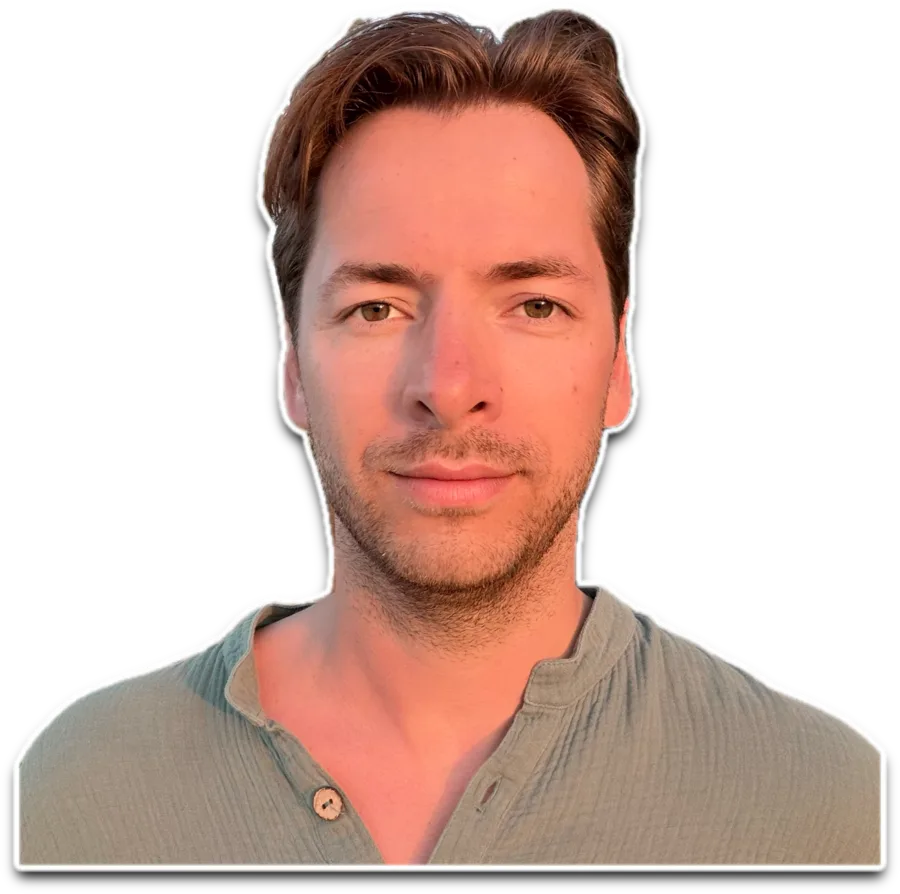
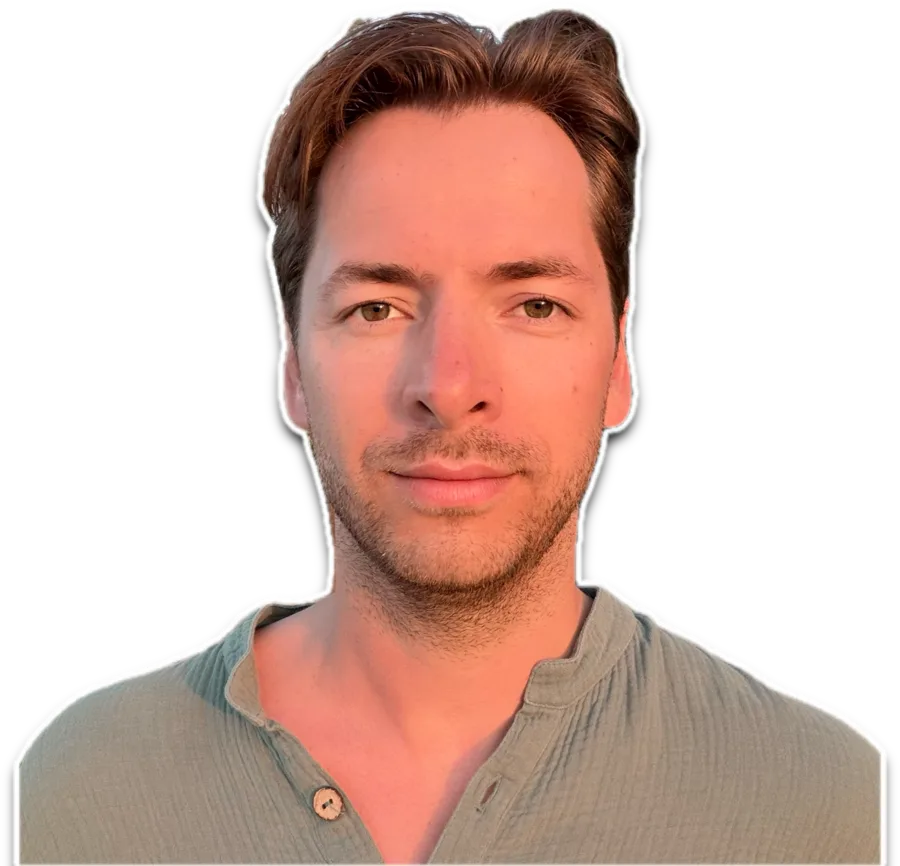
feat(hero): первый экран на всю высоту, логотипы Claude и ChatGPT у фото, мягкий низ фото
На десктопе блок занимает 100svh минус шапка с полями 48px, фото масштабируется
от высоты и ширины окна. Низ фото растворяется в фон вместо жёсткого среза.
Слева и справа от фото анимированные логотипы Claude (оранжевый) и ChatGPT
с подписями, место под них зарезервировано в колонке фото.

Changed region(s): [[0.0, 0.0, 0.9956, 1.0], [0.4044, 0.7794, 0.4356, 0.8106]]

diff --git a/components/sections/Hero.tsx b/components/sections/Hero.tsx
@@ -3,6 +3,7 @@ import Image from 'next/image';
 import Link from 'next/link';
 import { Button } from '@/components/ui/Button';
 import { Reveal } from '@/components/Reveal';
+import { ChatGPTLogo, ClaudeLogo } from '@/components/AgentLogos';
 
 // Фото учеников для полоски доверия — те же, что в «Сайтах наших учеников»
 const studentPhotos = [
@@ -26,27 +27,27 @@ export function Hero() {
       {/* Тёплый градиент с сеткой под тему — самый нижний слой */}
       <div aria-hidden className="hero-surface pointer-events-none absolute inset-0" />
 
-      <div className="container-page section relative z-10 flex flex-col items-center pb-48 pt-10 text-center sm:pb-56 sm:pt-14 lg:pt-20">
+      {/* С lg: блок занимает первый экран целиком (100svh минус шапка 7rem), поля 48px */}
+      <div className="container-page section relative z-10 flex flex-col items-center pb-20 pt-10 text-center sm:pb-24 sm:pt-14 lg:min-h-[calc(100svh-7rem)] lg:max-w-none lg:justify-center lg:px-12 lg:py-12">
         {/* До lg: стек по центру — фото, текст, чек-лист.
             С lg: три колонки — текст слева, фото в центре, чек-лист справа */}
-        <div className="grid w-full items-center gap-8 lg:grid-cols-[minmax(0,1fr)_auto_minmax(0,1fr)] lg:gap-6">
+        <div className="grid w-full items-center gap-8 lg:grid-cols-[minmax(0,1fr)_auto_minmax(0,1fr)] lg:gap-10">
           <Reveal className="order-2 lg:order-1 lg:text-left">
-            <p className="text-sm font-bold uppercase tracking-[0.2em] text-ink-soft">
-              Claude + ChatGPT
-            </p>
-            <p className="mt-4 inline-flex items-center border-2 border-terracotta px-4 py-1.5 text-sm font-bold uppercase tracking-wider text-terracotta">
+            <p className="inline-flex items-center border-2 border-terracotta px-4 py-1.5 text-sm font-bold uppercase tracking-wider text-terracotta">
               2–4 недели до сайта
             </p>
             <h1 className="mt-5 font-display font-bold leading-none tracking-tight">
-              <span className="block text-3xl sm:text-4xl lg:text-3xl">Соберите</span>
-              <span className="mt-1 block text-5xl uppercase text-terracotta sm:text-6xl lg:text-5xl">
+              <span className="block text-3xl sm:text-4xl lg:text-3xl 2xl:text-4xl">
+                Соберите
+              </span>
+              <span className="mt-1 block text-5xl uppercase text-terracotta sm:text-6xl lg:text-5xl 2xl:text-6xl">
                 свой сайт
               </span>
-              <span className="mt-2 block text-2xl sm:text-3xl lg:text-2xl">
+              <span className="mt-2 block text-2xl sm:text-3xl lg:text-2xl 2xl:text-3xl">
                 с помощью ИИ
               </span>
             </h1>
-            <p className="mt-5 text-lg font-semibold text-ink-soft sm:text-xl lg:text-lg">
+            <p className="mt-5 text-lg font-semibold text-ink-soft sm:text-xl lg:text-lg 2xl:text-xl">
               и сэкономьте{' '}
               <span className="text-terracotta">сотни тысяч рублей</span> на студиях
               и фрилансерах
@@ -57,15 +58,27 @@ export function Hero() {
             </p>
           </Reveal>
 
-          <div className="pointer-events-none relative order-1 mx-auto h-64 w-auto sm:h-80 lg:order-2 lg:h-[30rem]">
+          {/* Фото: с lg высота зависит и от высоты, и от ширины окна.
+              Низ растворяется в фон (hero-photo), логотипы агентов на уровне ушей */}
+          {/* Боковые отступы обёртки — место под логотипы, чтобы они не наезжали на соседние колонки */}
+          <div className="relative order-1 mx-auto h-56 w-auto px-14 sm:h-80 sm:px-20 lg:order-2 lg:h-[min(54svh,36vw)] lg:px-[clamp(4.5rem,6.5vw,7rem)]">
             <Image
               src="/images/roman-hero.webp"
               alt=""
               width={900}
-              height={894}
+              height={866}
               priority
-              className="h-full w-auto object-contain"
+              className="hero-photo pointer-events-none h-full w-auto object-contain"
             />
+
+            <div className="agent-badge absolute left-0 top-[38%] text-[10px] text-[#d97757] sm:text-xs">
+              <ClaudeLogo className="agent-claude h-9 w-9 sm:h-11 sm:w-11 lg:h-[clamp(2.75rem,4.5vw,4.5rem)] lg:w-[clamp(2.75rem,4.5vw,4.5rem)]" />
+              <span>Claude</span>
+            </div>
+            <div className="agent-badge absolute right-0 top-[38%] text-[10px] text-ink sm:text-xs">
+              <ChatGPTLogo className="agent-chatgpt h-9 w-9 sm:h-11 sm:w-11 lg:h-[clamp(2.75rem,4.5vw,4.5rem)] lg:w-[clamp(2.75rem,4.5vw,4.5rem)]" />
+              <span>ChatGPT</span>
+            </div>
           </div>
 
           {/* Чек-лист результатов — плашка, как на референсе */}
@@ -82,7 +95,7 @@ export function Hero() {
           </Reveal>
         </div>
 
-        <Reveal delay={300} className="mt-10 flex flex-col items-center gap-4 sm:flex-row">
+        <Reveal delay={300} className="mt-10 flex flex-col items-center gap-4 sm:flex-row lg:mt-6">
           <Button href="/#zayavka" size="lg">
             Записаться в мастерскую
           </Button>
@@ -96,7 +109,7 @@ export function Hero() {
           {/* Мобилка: фото сверху, подпись под ними; с sm — в одну строку */}
           <Link
             href="#works"
-            className="group mt-8 flex flex-col items-center gap-2.5 sm:flex-row sm:gap-3"
+            className="group mt-8 flex flex-col items-center gap-2.5 sm:flex-row sm:gap-3 lg:mt-5"
           >
             {/* shrink-0: иначе flex ужимает полоску, и фото вылезают под текст */}
             <span className="flex shrink-0" aria-hidden>
@@ -120,7 +133,7 @@ export function Hero() {
           </Link>
         </Reveal>
 
-        <Reveal delay={500} className="mt-10">
+        <Reveal delay={500} className="mt-10 lg:mt-5">
           <Link
             href="#audience"
             aria-label="К следующему разделу"

diff --git a/components/AgentLogos.tsx b/components/AgentLogos.tsx
@@ -1,0 +1,20 @@
+// Логотипы ИИ-агентов у фото преподавателя. Векторы — Simple Icons (CC0).
+// Анимации — как индикаторы загрузки в самих продуктах: Claude «дышит», ChatGPT крутится.
+
+type LogoProps = { className?: string };
+
+export function ClaudeLogo({ className = '' }: LogoProps) {
+  return (
+    <svg viewBox="0 0 24 24" className={className} aria-hidden fill="currentColor">
+      <path d="m4.7144 15.9555 4.7174-2.6471.079-.2307-.079-.1275h-.2307l-.7893-.0486-2.6956-.0729-2.3375-.0971-2.2646-.1214-.5707-.1215-.5343-.7042.0546-.3522.4797-.3218.686.0608 1.5179.1032 2.2767.1578 1.6514.0972 2.4468.255h.3886l.0546-.1579-.1336-.0971-.1032-.0972L6.973 9.8356l-2.55-1.6879-1.3356-.9714-.7225-.4918-.3643-.4614-.1578-1.0078.6557-.7225.8803.0607.2246.0607.8925.686 1.9064 1.4754 2.4893 1.8336.3643.3035.1457-.1032.0182-.0728-.164-.2733-1.3539-2.4467-1.445-2.4893-.6435-1.032-.17-.6194c-.0607-.255-.1032-.4674-.1032-.7285L6.287.1335 6.6997 0l.9957.1336.419.3642.6192 1.4147 1.0018 2.2282 1.5543 3.0296.4553.8985.2429.8318.091.255h.1579v-.1457l.1275-1.706.2368-2.0947.2307-2.6957.0789-.7589.3764-.9107.7468-.4918.5828.2793.4797.686-.0668.4433-.2853 1.8517-.5586 2.9021-.3643 1.9429h.2125l.2429-.2429.9835-1.3053 1.6514-2.0643.7286-.8196.85-.9046.5464-.4311h1.0321l.759 1.1293-.34 1.1657-1.0625 1.3478-.8804 1.1414-1.2628 1.7-.7893 1.36.0729.1093.1882-.0183 2.8535-.607 1.5421-.2794 1.8396-.3157.8318.3886.091.3946-.3278.8075-1.967.4857-2.3072.4614-3.4364.8136-.0425.0304.0486.0607 1.5482.1457.6618.0364h1.621l3.0175.2247.7892.522.4736.6376-.079.4857-1.2142.6193-1.6393-.3886-3.825-.9107-1.3113-.3279h-.1822v.1093l1.0929 1.0686 2.0035 1.8092 2.5075 2.3314.1275.5768-.3218.4554-.34-.0486-2.2039-1.6575-.85-.7468-1.9246-1.621h-.1275v.17l.4432.6496 2.3436 3.5214.1214 1.0807-.17.3521-.6071.2125-.6679-.1214-1.3721-1.9246L14.38 17.959l-1.1414-1.9428-.1397.079-.674 7.2552-.3156.3703-.7286.2793-.6071-.4614-.3218-.7468.3218-1.4753.3886-1.9246.3157-1.53.2853-1.9004.17-.6314-.0121-.0425-.1397.0182-1.4328 1.9672-2.1796 2.9446-1.7243 1.8456-.4128.164-.7164-.3704.0667-.6618.4008-.5889 2.386-3.0357 1.4389-1.882.929-1.0868-.0062-.1579h-.0546l-6.3385 4.1164-1.1293.1457-.4857-.4554.0608-.7467.2307-.2429 1.9064-1.3114Z" />
+    </svg>
+  );
+}
+
+export function ChatGPTLogo({ className = '' }: LogoProps) {
+  return (
+    <svg viewBox="0 0 24 24" className={className} aria-hidden fill="currentColor">
+      <path d="M22.2819 9.8211a5.9847 5.9847 0 0 0-.5157-4.9108 6.0462 6.0462 0 0 0-6.5098-2.9A6.0651 6.0651 0 0 0 4.9807 4.1818a5.9847 5.9847 0 0 0-3.9977 2.9 6.0462 6.0462 0 0 0 .7427 7.0966 5.98 5.98 0 0 0 .511 4.9107 6.051 6.051 0 0 0 6.5146 2.9001A5.9847 5.9847 0 0 0 13.2599 24a6.0557 6.0557 0 0 0 5.7718-4.2058 5.9894 5.9894 0 0 0 3.9977-2.9001 6.0557 6.0557 0 0 0-.7475-7.0729zm-9.022 12.6081a4.4755 4.4755 0 0 1-2.8764-1.0408l.1419-.0804 4.7783-2.7582a.7948.7948 0 0 0 .3927-.6813v-6.7369l2.02 1.1686a.071.071 0 0 1 .038.052v5.5826a4.504 4.504 0 0 1-4.4945 4.4944zm-9.6607-4.1254a4.4708 4.4708 0 0 1-.5346-3.0137l.142.0852 4.783 2.7582a.7712.7712 0 0 0 .7806 0l5.8428-3.3685v2.3324a.0804.0804 0 0 1-.0332.0615L9.74 19.9502a4.4992 4.4992 0 0 1-6.1408-1.6464zM2.3408 7.8956a4.485 4.485 0 0 1 2.3655-1.9728V11.6a.7664.7664 0 0 0 .3879.6765l5.8144 3.3543-2.0201 1.1685a.0757.0757 0 0 1-.071 0l-4.8303-2.7865A4.504 4.504 0 0 1 2.3408 7.872zm16.5963 3.8558L13.1038 8.364 15.1192 7.2a.0757.0757 0 0 1 .071 0l4.8303 2.7913a4.4944 4.4944 0 0 1-.6765 8.1042v-5.6772a.79.79 0 0 0-.407-.667zm2.0107-3.0231l-.142-.0852-4.7735-2.7818a.7759.7759 0 0 0-.7854 0L9.409 9.2297V6.8974a.0662.0662 0 0 1 .0284-.0615l4.8303-2.7866a4.4992 4.4992 0 0 1 6.6802 4.66zM8.3065 12.863l-2.02-1.1638a.0804.0804 0 0 1-.038-.0567V6.0742a4.4992 4.4992 0 0 1 7.3757-3.4537l-.142.0805L8.704 5.459a.7948.7948 0 0 0-.3927.6813zm1.0976-2.3654l2.602-1.4998 2.6069 1.4998v2.9994l-2.5974 1.4997-2.6067-1.4997Z" />
+    </svg>
+  );
+}

diff --git a/app/globals.css b/app/globals.css
@@ -240,6 +240,51 @@
   mask-image: linear-gradient(to bottom, black 0%, black 70%, transparent 100%);
 }
 
+/* Низ фото растворяется в фон, чтобы срез рубашки не выглядел оторванным */
+.hero-photo {
+  -webkit-mask-image: linear-gradient(to bottom, black 78%, transparent 100%);
+  mask-image: linear-gradient(to bottom, black 78%, transparent 100%);
+}
+
+/* ===== Логотипы агентов у фото (components/AgentLogos.tsx) ===== */
+
+.agent-badge {
+  display: flex;
+  flex-direction: column;
+  align-items: center;
+  gap: 0.375rem;
+  font-weight: 700;
+  letter-spacing: 0.08em;
+  text-transform: uppercase;
+  white-space: nowrap;
+}
+
+/* Claude «дышит», как индикатор ответа в Claude Code */
+.agent-claude {
+  animation: agent-breathe 2.2s ease-in-out infinite;
+  transform-origin: center;
+}
+@keyframes agent-breathe {
+  0%, 100% { transform: scale(1) rotate(0deg); opacity: 0.85; }
+  50% { transform: scale(1.14) rotate(12deg); opacity: 1; }
+}
+
+/* ChatGPT крутится, как логотип OpenAI во время генерации */
+.agent-chatgpt {
+  animation: agent-spin 5s linear infinite;
+  transform-origin: center;
+}
+@keyframes agent-spin {
+  to { transform: rotate(360deg); }
+}
+
+@media (prefers-reduced-motion: reduce) {
+  .agent-claude,
+  .agent-chatgpt {
+    animation: none;
+  }
+}
+
 /* ===== Анимации роботов-персонажей (components/RobotBackdrop.tsx) ===== */
 
 .rb-drive-a {
